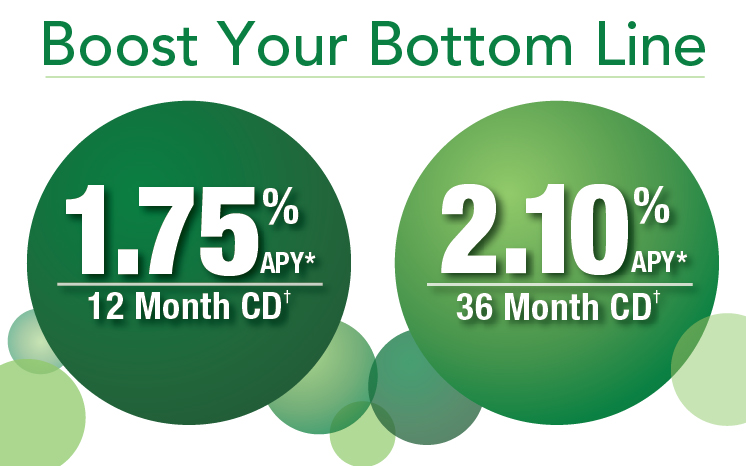
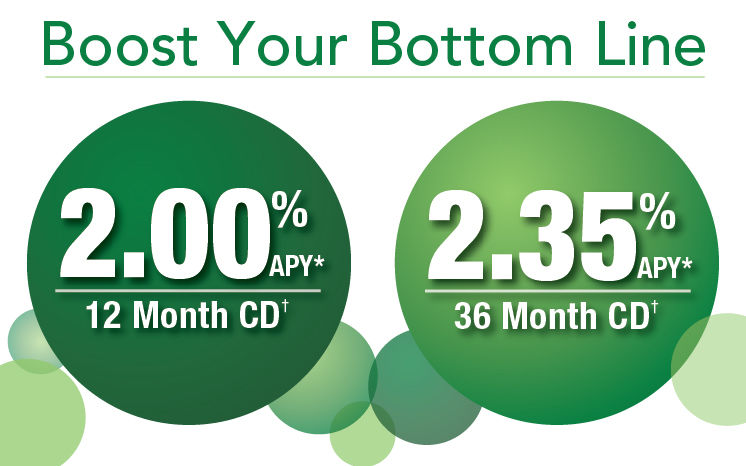
Changed CD Rate

Changed region(s): [[0.555, 0.3906, 0.9249, 0.721], [0.0617, 0.3906, 0.4316, 0.721]]

diff --git a/savings.html b/savings.html
@@ -195,7 +195,7 @@
               </div>
             </div><!-- row -->
             <div class="row spacer">
-              <p class="small para-margin"><sup>*</sup>Annual Percentage Yield (APY) <sup>†</sup>Promotional rates effective as of 4/13/18 and guaranteed for the term of the account. Offer limited to $10,000.00 or more of new money not currently on deposit within last 30 days with CIBM Bank. Minimum opening deposit of $2,500.00 and a maximum of $250,000.00. Withdrawals made prior to maturity may be subject to an early withdrawal penalty. Offer not available in combination with any other offer.</p>
+              <p class="small para-margin"><sup>*</sup>Annual Percentage Yield (APY) <sup>†</sup>Promotional rates effective as of 5/15/18 and guaranteed for the term of the account. Offer limited to $10,000.00 or more of new money not currently on deposit within last 30 days with CIBM Bank. Minimum opening deposit of $2,500.00 and a maximum of $250,000.00. Withdrawals made prior to maturity may be subject to an early withdrawal penalty. Offer not available in combination with any other offer.</p>
             </div>
             <div class="row spacer">
               <div class="col-md-6">
